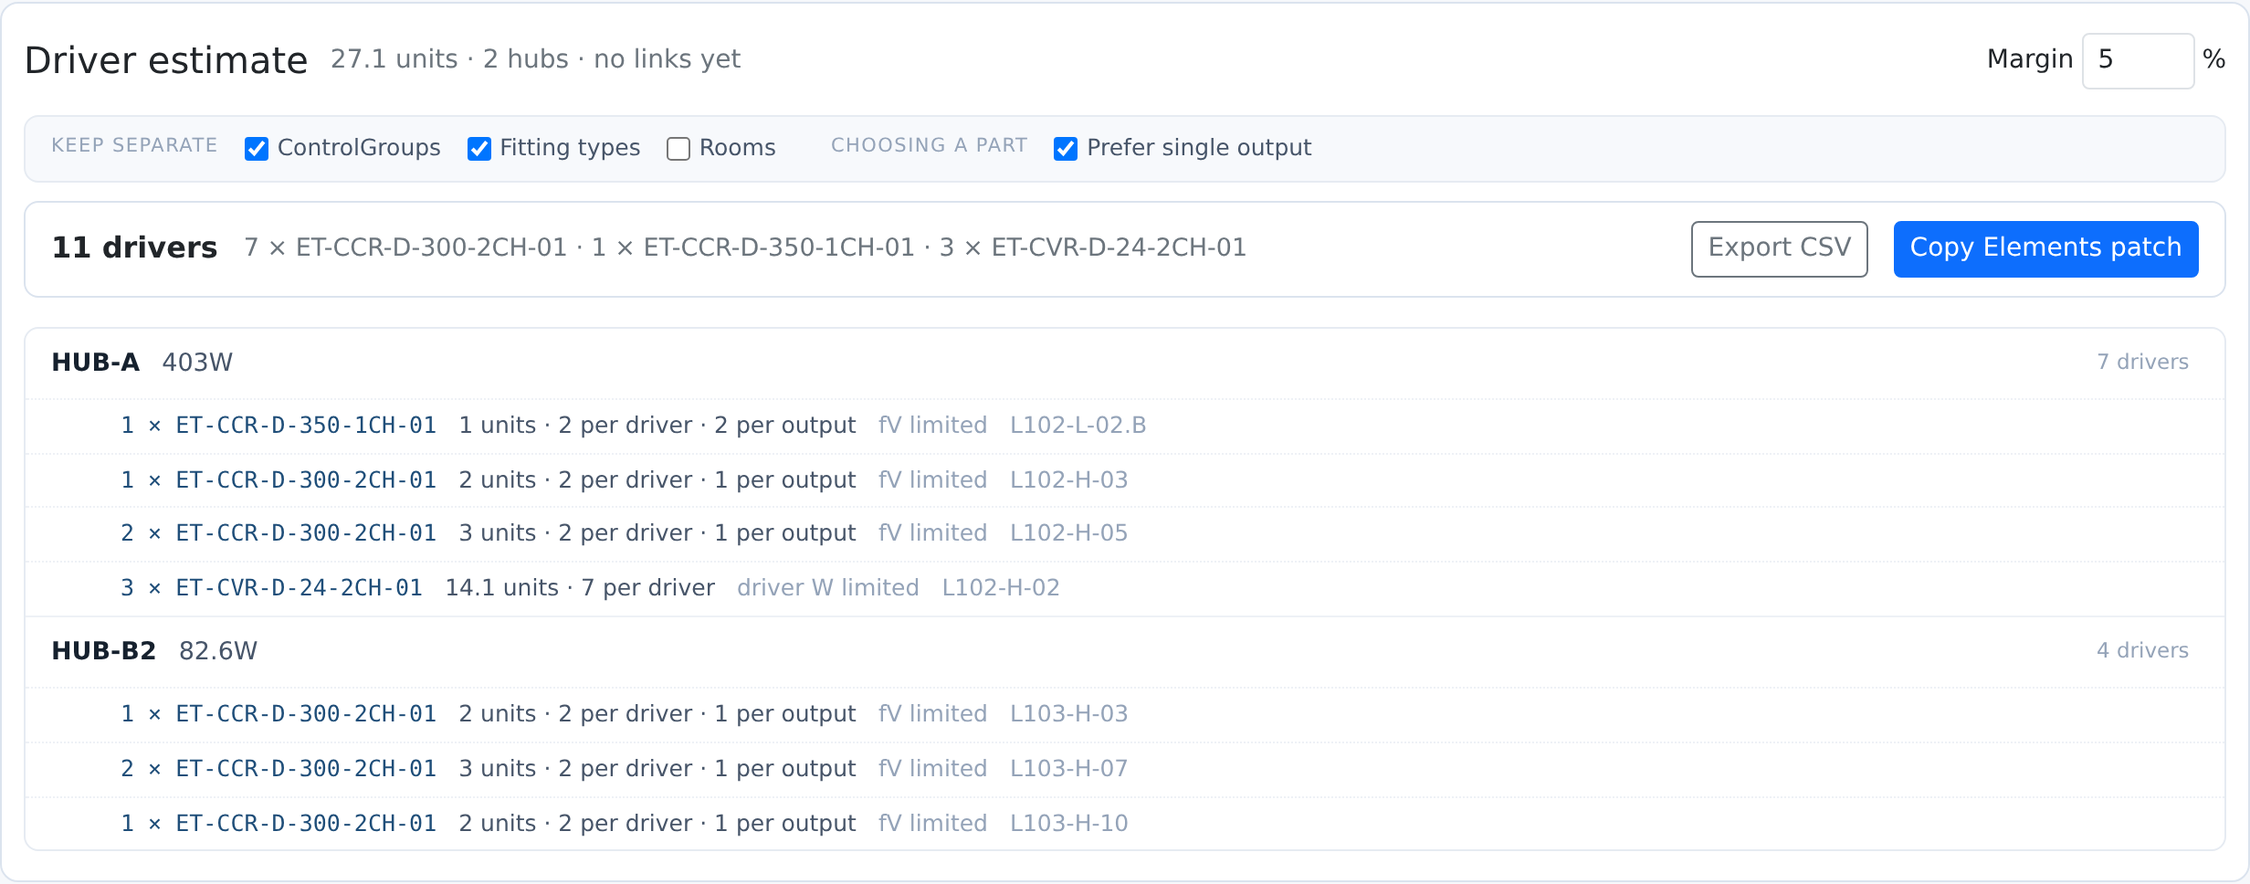
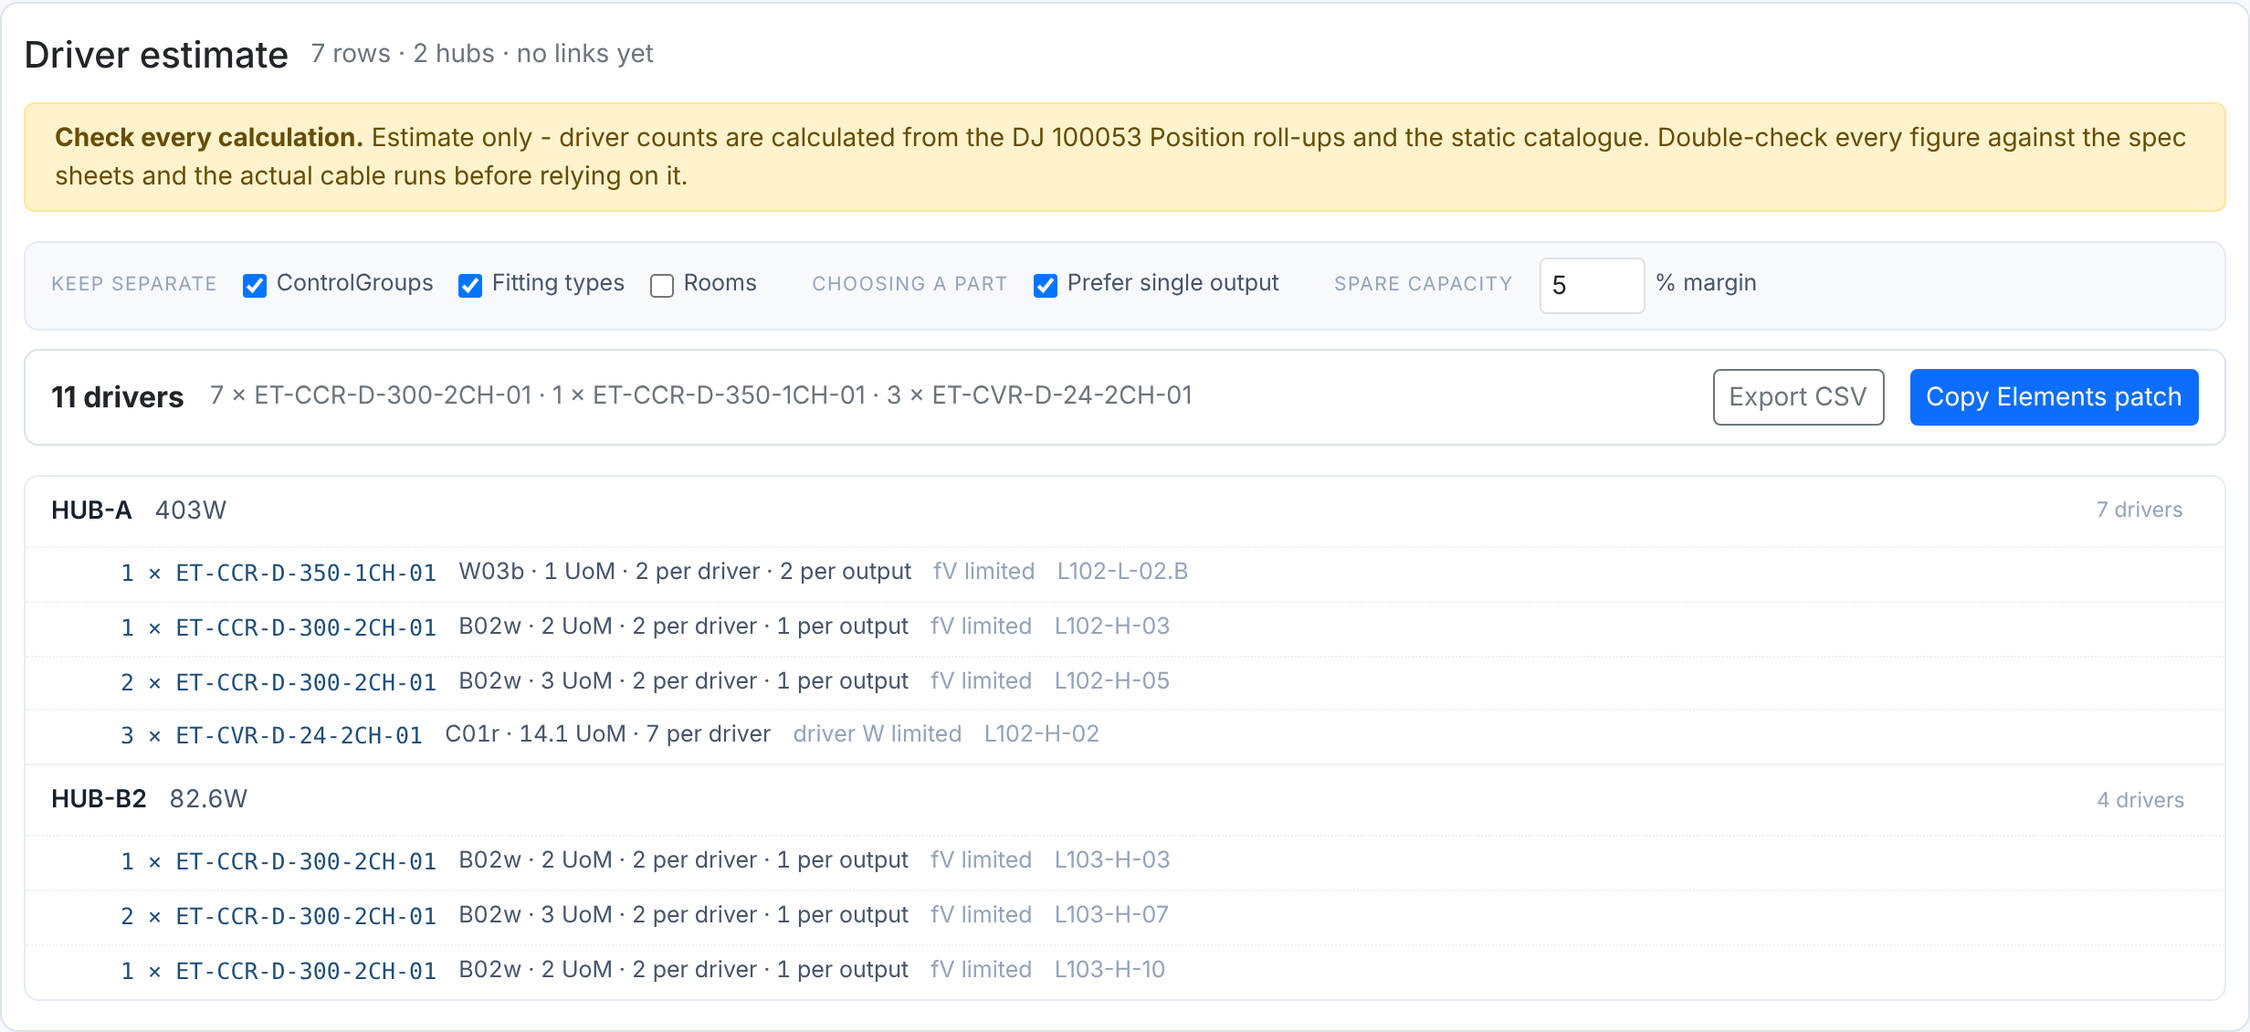
Make Cables and Assessment interchangeable views of every hub
The overlay now sends the DJ 100053 assessment for every hub, not only
cable-less ones, and the tool keeps it beside the cables. A Cables |
Assessment toggle sits by the hub name on both pages; the estimate page
compares its per-type driver count with the hub's actual drivers.

The estimate page, CSV and patch carry a warning to double-check every
figure.

Overlay V1.12 states @OverlayVersion in dat:init. The tool compares it
with the version it was built for and names the overlay file to update
when they differ; a test keeps the two in step.

Claude-Session: https://claude.ai/code/session_01SdQWcCWwEYdYJVPnUY2RvD

diff --git a/src/components/EstimatePage.jsx b/src/components/EstimatePage.jsx
@@ -1,6 +1,8 @@
 import { useEffect, useMemo, useState } from 'react';
 import * as api from '../api.js';
-import { resolveSpec } from '../engine.js';
+import { compareEstimate, ESTIMATE_WARNING, resolveSpec, zoneViews } from '../engine.js';
+import { effectiveDrivers } from '../state.js';
+import ViewToggle from './ViewToggle.jsx';
 
 // Tender estimate - Positions rolled up by DJ 100053, no links and no drivers.
 // There is nothing to assign here, so there is no tray and no bins: the question
@@ -55,6 +57,16 @@ export default function EstimatePage({ state, dispatch, zone }) {
     return { drivers, unmatched, byType: [...byType.entries()].sort() };
   }, [zones]);
 
+  // Beside the hub's actual drivers, per type - only for one hub that has any.
+  // An estimate-only hub has nothing to compare, and saying "0 in the hub" for
+  // every type would read as a fault.
+  const views = zone ? zoneViews(model, zone) : null;
+  const compare = useMemo(() => {
+    if (!zone || !views?.cables) return null;
+    const hub = effectiveDrivers(model, state.addedDrivers, state.deletedDrivers).filter((d) => d.zone === zone);
+    return compareEstimate(zones.find((z) => z.zone === zone), hub);
+  }, [model, zone, zones, state.addedDrivers, state.deletedDrivers, views?.cables]);
+
   // scoped to one hub when routed from the landing page, whole job otherwise
   const rows = zone ? model.requirements.filter((r) => r.zone === zone) : model.requirements;
   const posTypes = new Set(rows.map((r) => r.positionType).filter(Boolean));
@@ -105,6 +117,8 @@ export default function EstimatePage({ state, dispatch, zone }) {
     for (const z of zones) {
       for (const l of z.lines) rows.push([z.zone, l.typeRef, l.count, l.qty, fmt(l.loadW), l.limit]);
     }
+    // last, so the header stays the first row for anything that reads this back
+    rows.push([], ['NOTE', ESTIMATE_WARNING]);
     const csv = rows.map((r) => r.map((v) => `"${String(v ?? '')}"`).join(',')).join('\r\n');
     const stamp = new Date().toISOString().slice(0, 10).replaceAll('-', '');
     await api.saveCsv(`${csv}\r\n`, `DriverEstimate-${stamp}.csv`);
@@ -114,6 +128,7 @@ export default function EstimatePage({ state, dispatch, zone }) {
     <div className="container-fluid py-3 drivers-page">
       <div className="dp-head">
         <h5 className="mb-0">Driver estimate</h5>
+        {zone && <ViewToggle model={model} zone={zone} current="estimate" dispatch={dispatch} />}
         {/* An early design has hubs and Elements but no cables: the space layout is
             still where they are arranged, so the quiet way in is here too. */}
         {zone && (
@@ -124,7 +139,8 @@ export default function EstimatePage({ state, dispatch, zone }) {
         )}
         <span className="text-secondary small">
           {rows.length} row{rows.length === 1 ? '' : 's'} · {posTypes.size} PositionType{posTypes.size === 1 ? '' : 's'}
-          {' · '}{zone ?? `${zones.length} hub${zones.length === 1 ? '' : 's'}`} · no links yet
+          {' · '}{zone ?? `${zones.length} hub${zones.length === 1 ? '' : 's'}`}
+          {views?.cables ? '' : ' · no links yet'}
         </span>
         {totals.unmatched > 0 && (
           <span className="dp-need" title="No type in the library can take these, so no driver is counted for them">
@@ -132,6 +148,36 @@ export default function EstimatePage({ state, dispatch, zone }) {
           </span>
         )}
       </div>
+
+      {/* Always shown, never dismissable: the count is a starting point. */}
+      <div className="alert alert-warning d-flex align-items-start gap-2 py-2 small" role="note">
+        <span className="material-icons small-icon">warning</span>
+        <div><strong>Check every calculation.</strong> {ESTIMATE_WARNING}</div>
+      </div>
+
+      {zone && !rows.length && (
+        <div className="alert alert-secondary py-2 small">
+          No assessment rows for {zone}. The host sends them from the hub's Positions (DJ 100053) - if
+          this hub has Positions, the DataJoin overlay may be out of date.
+        </div>
+      )}
+
+      {compare && rows.length > 0 && (
+        <div className={`alert ${compare.mismatch ? 'alert-danger' : 'alert-success'} py-2 small`}>
+          <strong>{compare.mismatch ? 'Estimate and hub disagree' : 'Estimate matches the hub'}</strong>
+          {' - '}estimate {compare.rows.reduce((n, r) => n + r.estimate, 0)} driver(s),
+          hub has {compare.rows.reduce((n, r) => n + r.hub, 0)}.
+          {compare.mismatch && (
+            <ul className="mb-0 mt-1">
+              {compare.rows.filter((r) => r.estimate !== r.hub).map((r) => (
+                <li key={r.typeRef}>
+                  <code>{r.typeRef}</code>: estimate {r.estimate}, hub {r.hub}
+                </li>
+              ))}
+            </ul>
+          )}
+        </div>
+      )}
 
       {/* Each of these makes the estimate looser, and the count higher. Turning
           them all off gives the tightest possible answer, which is rarely the

diff --git a/src/engine.js b/src/engine.js
@@ -867,6 +867,38 @@ export function zoneMode(model, zone) {
   return null;
 }
 
+// The two views of a hub - its cables on driver nodes, and the estimate from its
+// Positions - are interchangeable whatever the hub holds, because putting one
+// beside the other is how a mismatch gets noticed. This says which of them have
+// anything to show, so a view with nothing can say why rather than look broken.
+export function zoneViews(model, zone) {
+  const has = (list) => (list || []).some((x) => x.zone === zone);
+  return {
+    cables: has(model.links) || has(model.drivers),
+    assessment: has(model.requirements),
+  };
+}
+
+// The estimate's count beside what the hub actually has, per driver type. Hub
+// drivers are the Driver Assignment rows plus any added in this session, less
+// any marked for deletion. Only the differing types are worth a person's eye,
+// but every type is returned so the screen can show the agreement too.
+export function compareEstimate(plan, drivers) {
+  const rows = new Map();
+  const row = (t) => rows.get(t) ?? rows.set(t, { typeRef: t, estimate: 0, hub: 0 }).get(t);
+  for (const l of plan?.lines ?? []) row(l.typeRef).estimate += l.count;
+  for (const d of drivers || []) row(d.typeRef).hub += 1;
+  const list = [...rows.values()].sort((a, b) => a.typeRef.localeCompare(b.typeRef));
+  return { rows: list, mismatch: list.some((r) => r.estimate !== r.hub) };
+}
+
+// Shown on the assessment view and written into anything it exports. The
+// estimate sizes from roll-ups and a transcribed catalogue - it is a starting
+// count, not a design, and nothing downstream checks it.
+export const ESTIMATE_WARNING = 'Estimate only - driver counts are calculated from the DJ 100053 Position '
+  + 'roll-ups and the static catalogue. Double-check every figure against the spec sheets and the '
+  + 'actual cable runs before relying on it.';
+
 // The ref IS the spec in this library (ET-CCR-D-350-2CH-01 = CC, 350mA, 2CH), so
 // the next free one is composed from the ratings being entered rather than a
 // counter. A sibling's stem wins when there is one: naming is per-project and
@@ -1471,8 +1503,9 @@ export function generateEstimatePatch(estimates) {
     quantity: l.count,
     note: z.hubContextType ? '' : 'CHECK ContextType: assumed Position',
   })));
-  if (!adds.length) return script('');
-  return script(`${header(ELEMENT_SHEET, 'E', ELEM_COLS)}\n${addSection(adds)}`);
+  const warn = `// ${ESTIMATE_WARNING}\n`;
+  if (!adds.length) return warn + script('');
+  return warn + script(`${header(ELEMENT_SHEET, 'E', ELEM_COLS)}\n${addSection(adds)}`);
 }
 
 export function generatePatchScript(model, assignments, addedDrivers, presets, context) {

diff --git a/src/embed.js b/src/embed.js
@@ -43,6 +43,35 @@ export function validateInit(msg, origin, allowedOrigin) {
   return { ok: true };
 }
 
+// The overlay that sends dat:init lives in DataJoin, saved by hand, and this
+// tool deploys on every push - so the two drift. The overlay states its version
+// in the init message; a build states the version it was written against.
+// Pure: returns the sentence to show, or null when they agree (or the tool has
+// no overlay to check). An overlay old enough to send no version at all is
+// older than the first one that did.
+const parts = (v) => String(v).split('.').map((n) => Number(n) || 0);
+function cmp(a, b) {
+  const x = parts(a); const y = parts(b);
+  for (let i = 0; i < Math.max(x.length, y.length); i += 1) {
+    if ((x[i] ?? 0) !== (y[i] ?? 0)) return (x[i] ?? 0) < (y[i] ?? 0) ? -1 : 1;
+  }
+  return 0;
+}
+export function overlayNotice(sent, expected) {
+  if (!expected?.version) return null;
+  const { version, where, file } = expected;
+  const has = sent != null && String(sent).trim() !== '';
+  const order = has ? cmp(sent, version) : -1;
+  if (order === 0) return null;
+  if (order < 0) {
+    return `The DataJoin overlay on ${where} is ${has ? `V${sent}` : `older than V${version}`}, and this tool `
+      + `expects V${version}. Update the overlay from ${file} in the driverassignmenttool repo - `
+      + 'until then some of what this page shows may be missing.';
+  }
+  return `The DataJoin overlay on ${where} is V${sent}, newer than the V${version} this tool was built for. `
+    + 'Reload; if it persists, the published tool is behind the overlay.';
+}
+
 // The driver type library, sent once before dat:init. Same envelope rules.
 export function validateTypes(msg, origin, allowedOrigin) {
   const env = validateEnvelope(msg, origin, allowedOrigin, topic('types'));

diff --git a/src/components/Landing.jsx b/src/components/Landing.jsx
@@ -32,7 +32,8 @@ export default function Landing({ state, dispatch }) {
       const units = mode === 'estimate'
         ? (model.requirements || []).filter((r) => r.zone === zone).reduce((n, r) => n + r.qty, 0)
         : 0;
-      return { zone, ...s, unassigned, orphans, mode, units };
+      const assessed = mode !== 'estimate' && (model.requirements || []).some((r) => r.zone === zone);
+      return { zone, ...s, unassigned, orphans, mode, units, assessed };
     }).sort(SORTS[sort]);
   }, [model, assignments, addedDrivers, flags, sort, state.deletedDrivers]);
 
@@ -96,6 +97,19 @@ export default function Landing({ state, dispatch }) {
             <span className="text-secondary small flex-shrink-0" style={{ width: 130 }}>
               {label}
             </span>
+            {z.assessed && (
+              <Tooltip content="This hub also has assessment rows - open the estimate to compare">
+                <span className="badge badge-tray flex-shrink-0" role="button" tabIndex={0}
+                  onClick={(e) => { e.stopPropagation(); dispatch({ type: 'SET_VIEW', view: { page: 'estimate', zone: z.zone } }); }}
+                  onKeyDown={(e) => {
+                    if (e.key !== 'Enter' && e.key !== ' ') return;
+                    e.preventDefault(); e.stopPropagation();
+                    dispatch({ type: 'SET_VIEW', view: { page: 'estimate', zone: z.zone } });
+                  }}>
+                  assessment
+                </span>
+              </Tooltip>
+            )}
             {z.unassigned > 0 && (
               <Tooltip content="Cables not yet assigned to any driver node">
                 <span className="badge badge-tray flex-shrink-0">{z.unassigned} tray</span>

diff --git a/src/components/ViewToggle.jsx b/src/components/ViewToggle.jsx
@@ -1,0 +1,26 @@
+import { zoneViews } from '../engine.js';
+
+// Cables | Assessment - the two views of one hub. Both are always offered,
+// whatever the hub holds: comparing them is how a hub whose drivers disagree
+// with its Positions gets noticed. A view with nothing to show stays clickable
+// and says so on the page, rather than hiding and leaving the user to wonder.
+export default function ViewToggle({ model, zone, current, dispatch }) {
+  const has = zoneViews(model, zone);
+  const go = (page) => page !== current && dispatch({ type: 'SET_VIEW', view: { page, zone } });
+  const btn = (page, label, icon, there, empty) => (
+    <button type="button"
+      className={`btn btn-outline-secondary d-flex align-items-center gap-1 ${current === page ? 'active' : ''} ${there ? '' : 'text-muted'}`}
+      title={there ? undefined : empty}
+      aria-pressed={current === page}
+      onClick={() => go(page)}>
+      <span className="material-icons small-icon">{icon}</span>{label}
+    </button>
+  );
+  return (
+    <div className="btn-group btn-group-sm" role="group" aria-label="Hub view">
+      {btn('zone', 'Cables', 'cable', has.cables, 'No cables or drivers in this hub yet')}
+      {btn('estimate', 'Assessment', 'calculate', has.assessment,
+        'No assessment rows for this hub - the host sent none')}
+    </div>
+  );
+}

diff --git a/src/App.jsx b/src/App.jsx
@@ -81,7 +81,11 @@ export default function App({ domain = driversDomain }) {
         // No match is a legitimate state - a hub with no drivers yet is exactly
         // what this tool exists to fix. Land on the list with a notice instead.
         const matched = focus && model.zones.includes(focus);
-        if (focus && !matched) setNotice(`${focus} isn't in the data the host sent - showing everything it did send.`);
+        const notes = [
+          focus && !matched ? `${focus} isn't in the data the host sent - showing everything it did send.` : null,
+          embed.overlayNotice(msg.overlay, domain.overlay),
+        ].filter(Boolean);
+        if (notes.length) setNotice(notes.join(' '));
         setSessionKey(msg.context?.branchId, msg.context?.systemSetId, msg.context?.hubRef);
         const init = {
           model,
@@ -120,7 +124,7 @@ export default function App({ domain = driversDomain }) {
       const init = { ...fresh.current,
         model: p.assessment && !p.links?.trim()
           ? api.parseEstimate(p.assessment, typesText)
-          : api.parseText(p.form, p.links, typesText) };
+          : api.parseText(p.form, p.links, typesText, p.assessment) };
       fresh.current = init;
       dispatch({ type: 'INIT', ...init });
     });

diff --git a/src/drivers/domain.js b/src/drivers/domain.js
@@ -76,13 +76,16 @@ export const drivers = makeDomain({
   slotsOf: (type) => type?.nodes?.map((n) => n.name) ?? [],
 
   // A hub the host sends with no cables - only a requirement assessment - is the
-  // tender case, and lands on the estimate rather than a tray.
+  // tender case, and lands on the estimate rather than a tray. A hub with cables
+  // keeps its assessment too, so the two views can be compared.
+  overlay: { version: '1.12', where: 'DJ 101681', file: 'sysex-overlay-DJ101681.sql' },
+
   parseInit: (msg, types) => {
     api.setTbcText(msg.tbc);
     api.setDriverExtras({ compositions: msg.compositions, elements: msg.elements });
     return msg.assessment && !msg.links?.trim()
       ? api.parseEstimate(msg.assessment, types)
-      : api.parseText(msg.form, msg.links, types);
+      : api.parseText(msg.form, msg.links, types, msg.assessment);
   },
 
   validate: (model, assignments, added, opts) => api.validate(assignments, added, opts),

diff --git a/src/components/ZonePage.jsx b/src/components/ZonePage.jsx
@@ -10,6 +10,7 @@ import LabelConfig from './LabelConfig.jsx';
 import ReviewModal from './ReviewModal.jsx';
 import Search from './Search.jsx';
 import SetupNotice from './SetupNotice.jsx';
+import ViewToggle from './ViewToggle.jsx';
 import { useDomain } from '../core/domain.js';
 import Tooltip from './Tooltip.jsx';
 import Tray from './Tray.jsx';
@@ -123,6 +124,7 @@ export default function ZonePage({ state, dispatch, zone, onResetToCurrentSet })
         )}
         <span className="zone-dot" style={{ background: accent }} />
         <h5 className="mb-0">{zone}</h5>
+        <ViewToggle model={model} zone={zone} current="zone" dispatch={dispatch} />
         {/* completion, tray and drivers-needed used to live only on Landing - 
             which an embedded, single-hub user never sees. Same numbers, same copy. */}
         <Tooltip content="Cables assigned to a driver node">

diff --git a/src/core/domain.js b/src/core/domain.js
@@ -82,6 +82,10 @@ export const NEUTRAL = {
   validate: async () => ({ flags: [] }),
   eligibility: async () => null,
 
+  // The DataJoin overlay this build was written against: { version, where, file }.
+  // `null` means the tool has nothing to check the host's version against.
+  overlay: null,
+
   // Rebuild the model after a type edit. Only a tool that keeps its source text
   // can do this; the rest say "nothing changed".
   rebuild: () => null,

diff --git a/src/api.js b/src/api.js
@@ -77,7 +77,7 @@ export async function parseAuto(files) {
   if (!found.form && !found.types) {
     throw new Error('Links only: add the Driver Assignment CSV, or the driver type library to size new drivers from.');
   }
-  return parseText(found.form, found.links, found.types);
+  return parseText(found.form, found.links, found.types, found.assessment);
 }
 
 // Third mode: Positions rolled up by DJ 100053, no links and no drivers.

diff --git a/EMBEDDING.md b/EMBEDDING.md
@@ -122,7 +122,8 @@ without reloading the frame) - it fully replaces the model.
 | `version` | `1` | yes | Mismatch → the frame renders an explicit error, not a guess |
 | `form` | string | no | Raw **Driver Assignment** CSV text. Absent or empty for a hub with no drivers yet |
 | `links` | string | see note | Raw **Links Assignment** CSV text |
-| `assessment` | string | see note | Raw **requirement assessment** CSV text, for a hub with no cables |
+| `assessment` | string | see note | Raw **requirement assessment** CSV text, for every hub with Positions (overlay V1.12+) |
+| `overlay` | string | no | The overlay's own version, e.g. `'1.12'`. The tool compares it with the version it was built against and shows a notice naming the overlay file to update when they differ; absent counts as older |
 | `focusZone` | string | no | Must match the `Pullzone` column exactly |
 | `context` | object | no | See below |
 
@@ -135,6 +136,13 @@ arrives (`detectMode()`), so the two halves agree:
 | `links` + `form` | assign | designed: cables and drivers both exist |
 | `links`, no `form` | size | cabled, but nothing to plug them into yet |
 | `assessment`, no `links` | estimate | at tender: Positions only, nothing to assign |
+
+The mode only picks the view a hub **opens on**. When a hub sends both `links`
+and `assessment`, the zone page and the estimate page are two interchangeable
+views of it - a Cables | Assessment toggle sits by the hub name on both, and the
+estimate page compares its count per driver type with the drivers the hub
+actually has. Overlays before V1.12 sent the assessment only for hubs with no
+cables, so a cabled hub on an older overlay has an empty Assessment view.
 
 A `dat:init` carrying neither is dropped as `missing links CSV`. A links CSV with
 a header and no data rows is **not** an error - it means the hub has no cables,

diff --git a/README.md b/README.md
@@ -19,6 +19,12 @@ but no cables is refused with a message naming the file that would fix it.
 | **Size** | cables, no drivers | work out the drivers, then place the cables | as above, plus the drivers |
 | **Estimate** | neither - Positions only | count the drivers from the fittings | Elements rows, CSV |
 
+The mode is only where a hub opens. Every hub has a **Cables | Assessment**
+toggle, so a designed hub can be checked against the estimate from its own
+Positions - the estimate page lists, per driver type, where the two disagree.
+The estimate is a starting count, not a design: the page and everything it
+exports say to double-check every figure.
+
 **Estimate** is the tender case. There are no cables to assign, so the input is
 a requirement assessment: fittings rolled up per secondary-power destination
 (the job DJ 100053 does, computed in the overlay from `{{>CalculatedPositions}}`).
@@ -98,8 +104,10 @@ sudo apt-get install -y libxkbcommon0     # Debian/Ubuntu, incl. Raspberry Pi
 
 ### Estimate
 
-A hub with Positions and no cables. The count is per hub, each line says which
-limit bound it, and the constraints along the top make the answer looser.
+A hub with Positions and no cables - or any hub, through the Assessment toggle.
+The count is per hub, each line says which limit bound it, and the constraints
+along the top make the answer looser. On a hub that also has drivers, a line
+above the constraints says whether the estimate agrees with them, type by type.
 
 ![Driver estimate](img/estimate.png)
 
